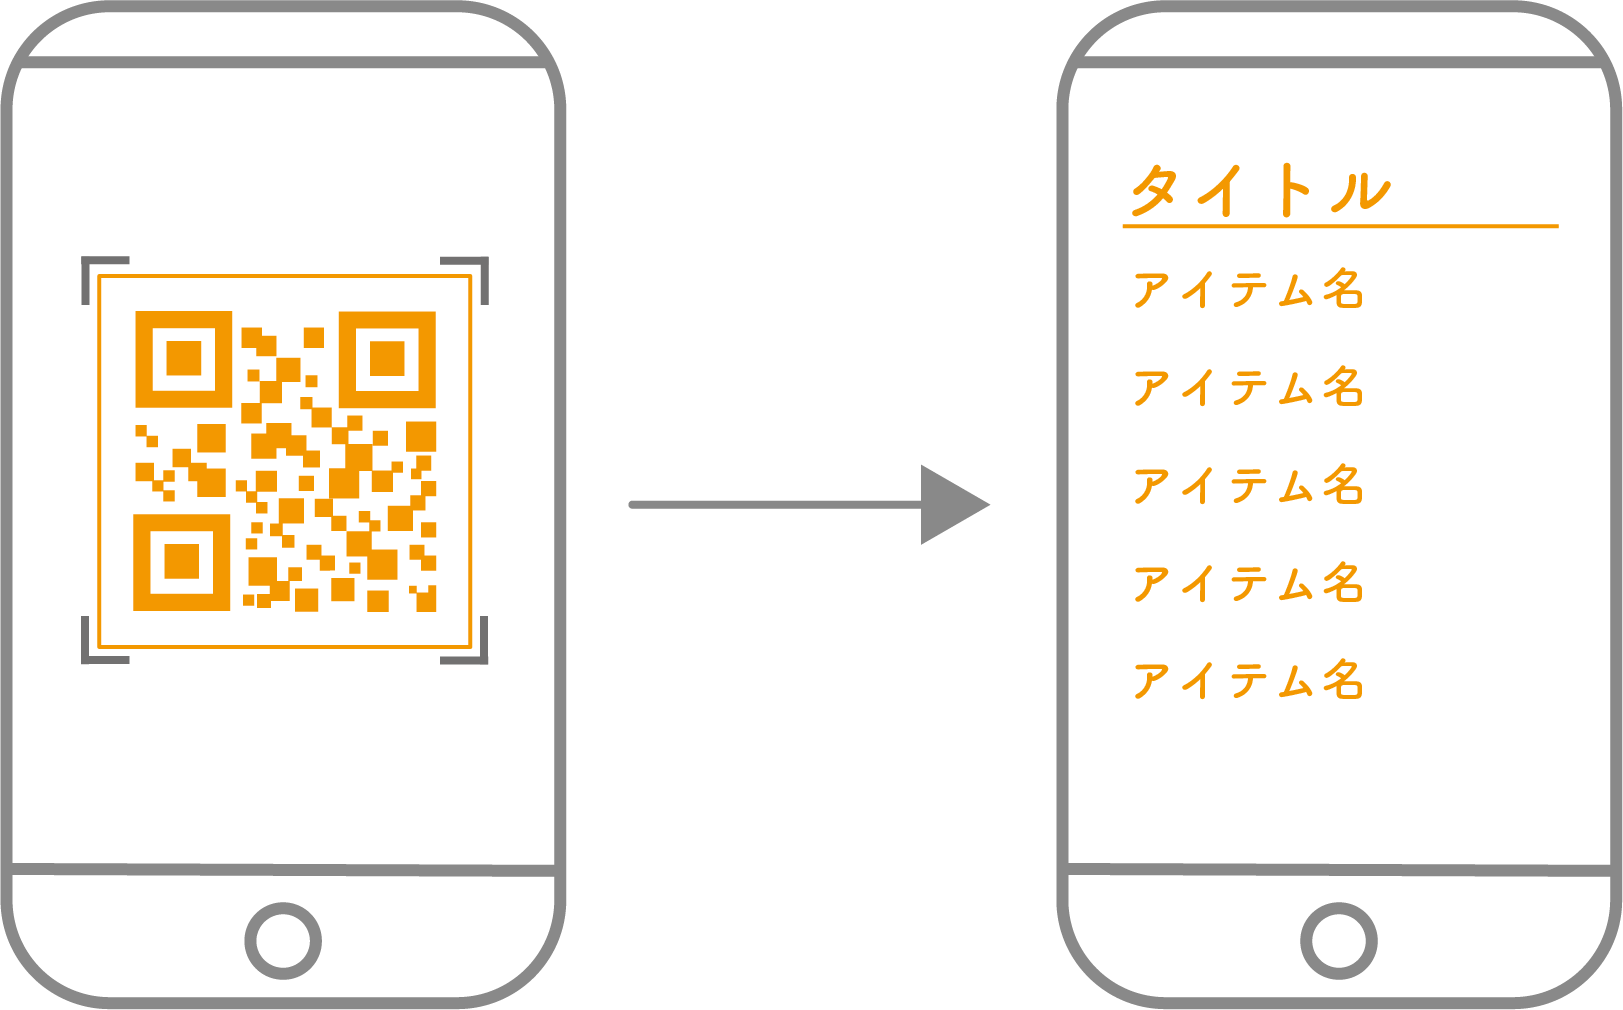
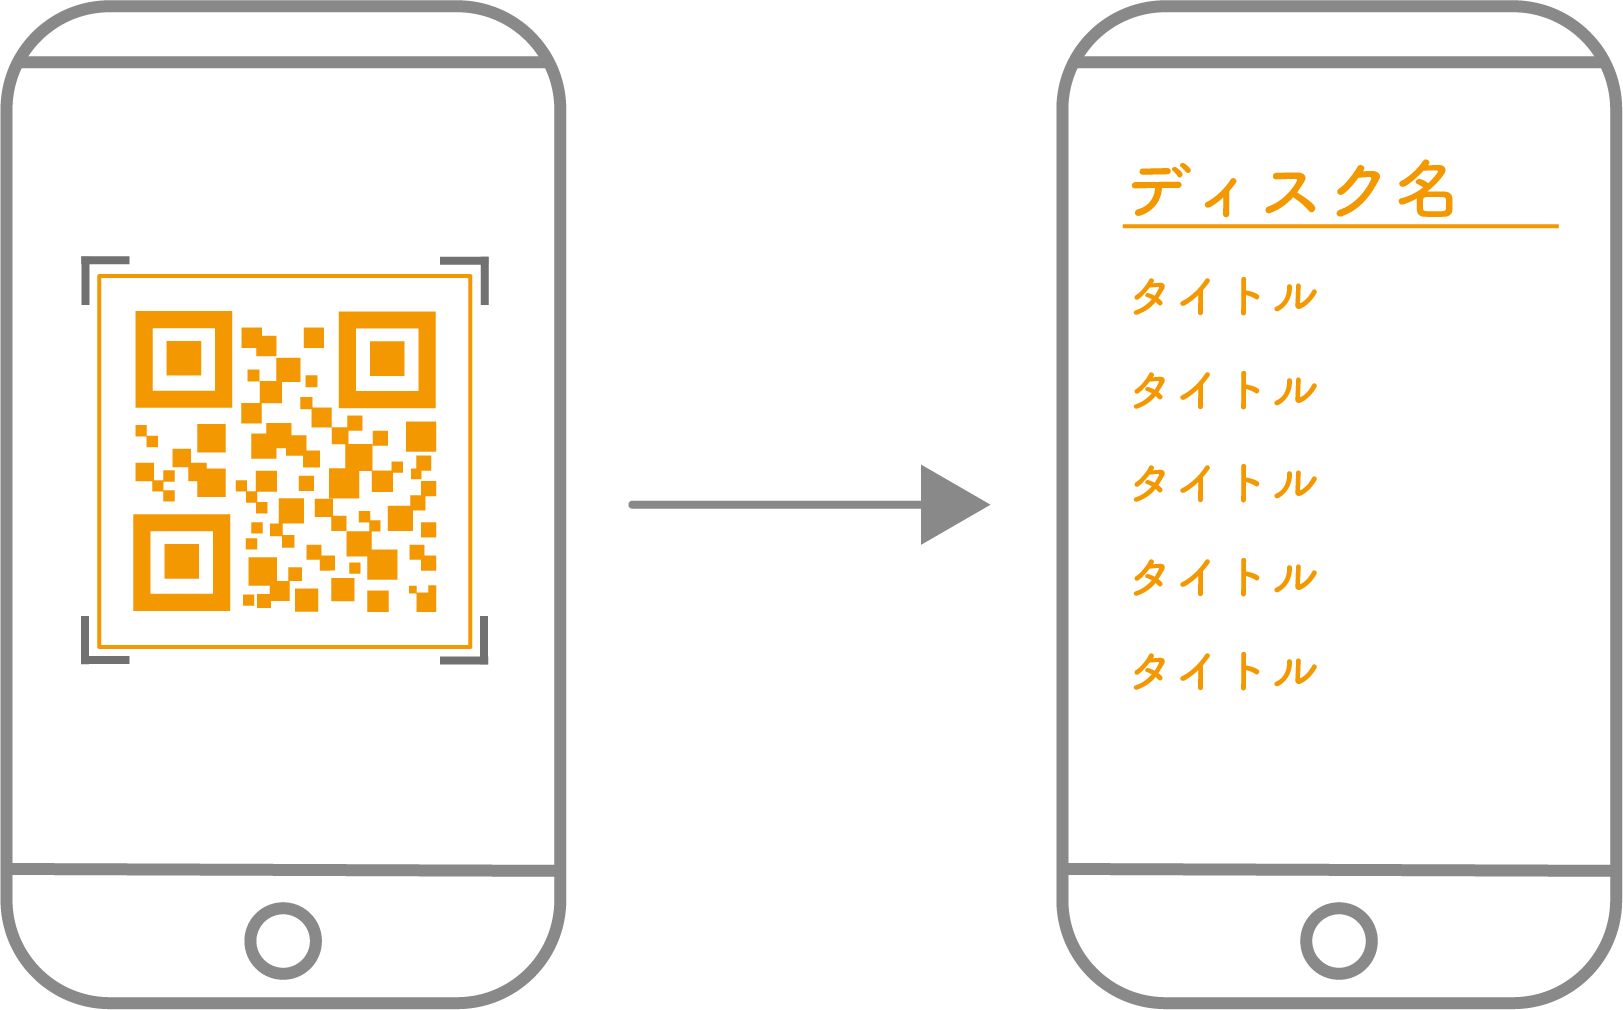
ディスク名とタイトル名に変更

diff --git a/src/pages/Home.js b/src/pages/Home.js
@@ -157,7 +157,7 @@ const Home = ({ history }) => {
         {/**TODO:サーチ有無でコンポーメント分ける */}
         <div>
           {searchItem.length > 0 ? (
-            <IonItemDivider color="light">ラベル</IonItemDivider>
+            <IonItemDivider color="light">ディスク名</IonItemDivider>
           ) : (
             []
           )}
@@ -186,7 +186,7 @@ const Home = ({ history }) => {
             );
           })}
           {itemData.length > 0 ? (
-            <IonItemDivider color="light">アイテム</IonItemDivider>
+            <IonItemDivider color="light">タイトル名</IonItemDivider>
           ) : (
             []
           )}

diff --git a/src/components/makeList.js b/src/components/makeList.js
@@ -137,7 +137,7 @@ const MakeList = ({ history }) => {
           <IonToolbar class="LabelName">
             <IonInput
               value={labelName}
-              placeholder="ラベル名"
+              placeholder="ディスク名"
               onIonChange={(e) => setLabelName(e.detail.value)}
               className="LabelName"
               onBlur={() => pushData()}

diff --git a/src/pages/slides/Slide4.js b/src/pages/slides/Slide4.js
@@ -27,7 +27,8 @@ const Slide4 = () => {
           >
             ※リストを作成した時と
             <br />
-            <b style={{ color: "#f0973f" }}>同じブラウザ</b>で見てください
+            <b style={{ color: "#f0973f" }}>同じ端末の同じブラウザ</b>
+            で見てください
           </p>
         </div>
       </div>
